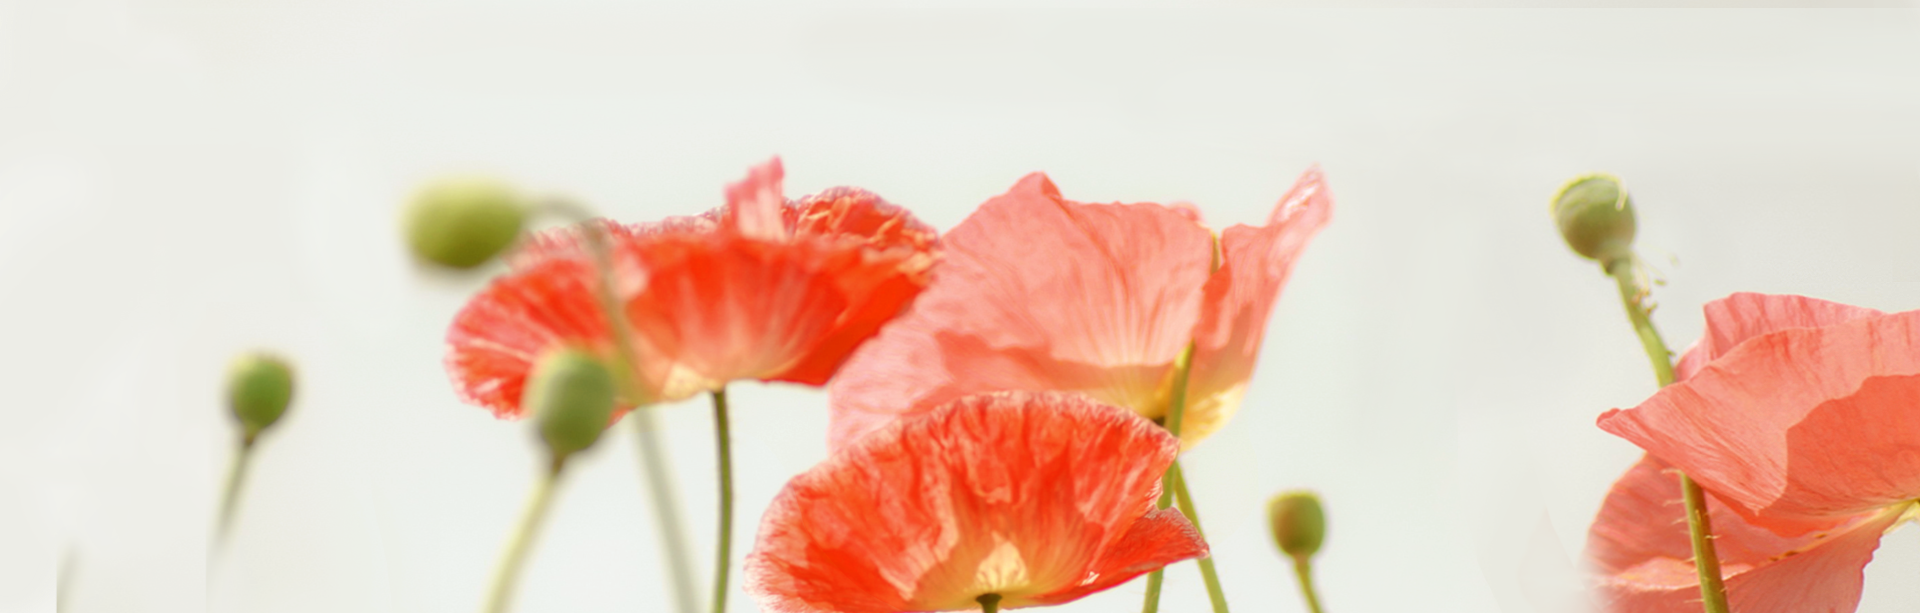
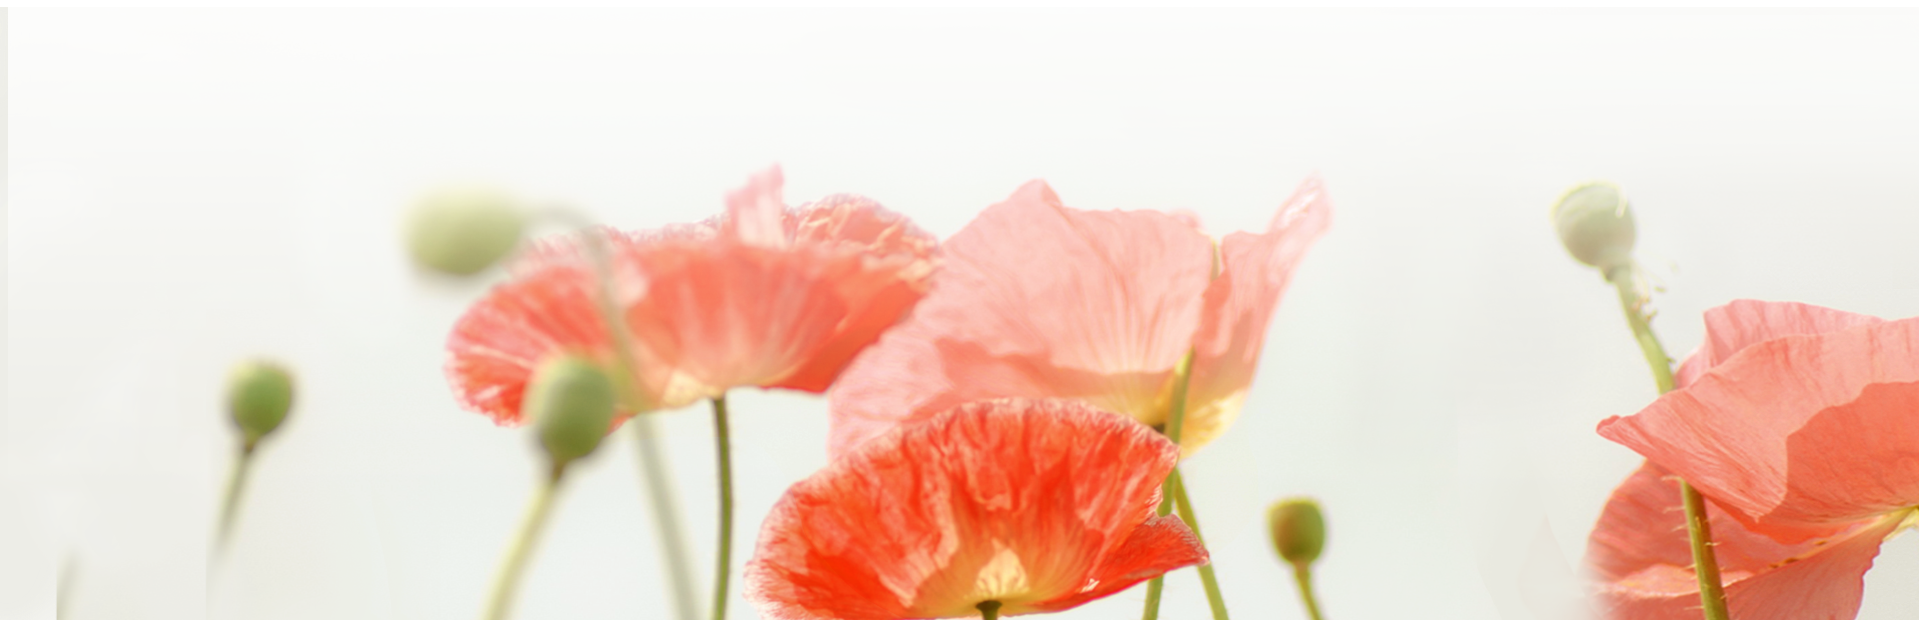
index html fixing

diff --git a/dev/scss/main.scss b/dev/scss/main.scss
@@ -215,6 +215,7 @@ a.icon-menu {
   background-image: url("../img/header-bg.png");
   background-repeat: no-repeat;
   background-size: cover;
+  background-position: center;
   margin-bottom: 90px;
   &__menu{
     background: #ffffffcc;
@@ -432,54 +433,6 @@ a.logo{
       }
     }
   }
-  &__pagination{
-    &>ul{
-      list-style: none;
-      display: flex;
-      justify-content: center;
-      margin-bottom: 80px;
-      &>li{
-        margin: 3px;
-        position: relative;
-        text-transform: uppercase;
-        border: 1px solid #959595;
-        background: #fff;
-        cursor: pointer;
-        transition: 0.3s all ease;
-        & a{
-          text-decoration: none;
-          display: block;
-          padding: 8px 15px;
-          font-size: 15px;
-        }
-        &.active{
-          border: 1px solid #ffaaaa;
-          /* Permalink - use to edit and share this gradient: http://colorzilla.com/gradient-editor/#ffaaaa+0,ef8282+100 */
-          background: #ffaaaa; /* Old browsers */
-          background: -moz-linear-gradient(top, #ffaaaa 0%, #ef8282 100%); /* FF3.6-15 */
-          background: -webkit-linear-gradient(top, #ffaaaa 0%,#ef8282 100%); /* Chrome10-25,Safari5.1-6 */
-          background: linear-gradient(to bottom, #ffaaaa 0%,#ef8282 100%); /* W3C, IE10+, FF16+, Chrome26+, Opera12+, Safari7+ */
-          filter: progid:DXImageTransform.Microsoft.gradient( startColorstr='#ffaaaa', endColorstr='#ef8282',GradientType=0 ); /* IE6-9 */
-          border: 1px solid #ffaaaa;
-          & a{
-            color: #fff;
-          }
-        }
-        &:hover{
-          border: 1px solid #ffaaaa;
-          /* Permalink - use to edit and share this gradient: http://colorzilla.com/gradient-editor/#ffaaaa+0,ef8282+100 */
-          background: #ffaaaa; /* Old browsers */
-          background: -moz-linear-gradient(top, #ffaaaa 0%, #ef8282 100%); /* FF3.6-15 */
-          background: -webkit-linear-gradient(top, #ffaaaa 0%,#ef8282 100%); /* Chrome10-25,Safari5.1-6 */
-          background: linear-gradient(to bottom, #ffaaaa 0%,#ef8282 100%); /* W3C, IE10+, FF16+, Chrome26+, Opera12+, Safari7+ */
-          filter: progid:DXImageTransform.Microsoft.gradient( startColorstr='#ffaaaa', endColorstr='#ef8282',GradientType=0 ); /* IE6-9 */
-          & a{
-            color: #fff;
-          }
-        }
-      }
-    }
-  }
   &__filter{
     position: fixed;
     background-color: #ffffffcc;
@@ -510,6 +463,53 @@ a.logo{
       {  
         padding: 0;
         width: 25%;
+      }
+    }
+  }
+}
+.pagination{
+  &>ul{
+    list-style: none;
+    display: flex;
+    justify-content: center;
+    margin-bottom: 80px;
+    &>li{
+      margin: 3px;
+      position: relative;
+      text-transform: uppercase;
+      border: 1px solid #959595;
+      background: #fff;
+      cursor: pointer;
+      transition: 0.3s all ease;
+      & a{
+        text-decoration: none;
+        display: block;
+        padding: 8px 15px;
+        font-size: 15px;
+      }
+      &.active{
+        border: 1px solid #ffaaaa;
+        /* Permalink - use to edit and share this gradient: http://colorzilla.com/gradient-editor/#ffaaaa+0,ef8282+100 */
+        background: #ffaaaa; /* Old browsers */
+        background: -moz-linear-gradient(top, #ffaaaa 0%, #ef8282 100%); /* FF3.6-15 */
+        background: -webkit-linear-gradient(top, #ffaaaa 0%,#ef8282 100%); /* Chrome10-25,Safari5.1-6 */
+        background: linear-gradient(to bottom, #ffaaaa 0%,#ef8282 100%); /* W3C, IE10+, FF16+, Chrome26+, Opera12+, Safari7+ */
+        filter: progid:DXImageTransform.Microsoft.gradient( startColorstr='#ffaaaa', endColorstr='#ef8282',GradientType=0 ); /* IE6-9 */
+        & a{
+          color: #fff;
+        }
+      }
+      &:hover{
+        border: 1px solid #ffaaaa;
+        /* Permalink - use to edit and share this gradient: http://colorzilla.com/gradient-editor/#ffaaaa+0,ef8282+100 */
+        background: #ffaaaa; /* Old browsers */
+        background: -moz-linear-gradient(top, #ffaaaa 0%, #ef8282 100%); /* FF3.6-15 */
+        background: -webkit-linear-gradient(top, #ffaaaa 0%,#ef8282 100%); /* Chrome10-25,Safari5.1-6 */
+        background: linear-gradient(to bottom, #ffaaaa 0%,#ef8282 100%); /* W3C, IE10+, FF16+, Chrome26+, Opera12+, Safari7+ */
+        filter: progid:DXImageTransform.Microsoft.gradient( startColorstr='#ffaaaa', endColorstr='#ef8282',GradientType=0 ); /* IE6-9 */
+        & a{
+          color: #fff;
+        }
       }
     }
   }
